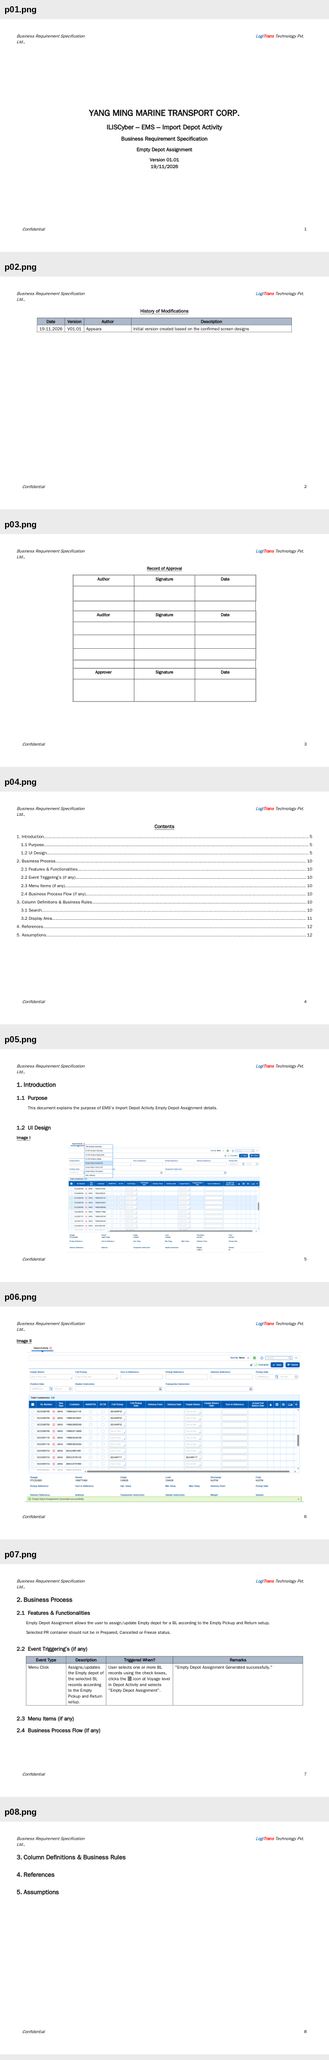
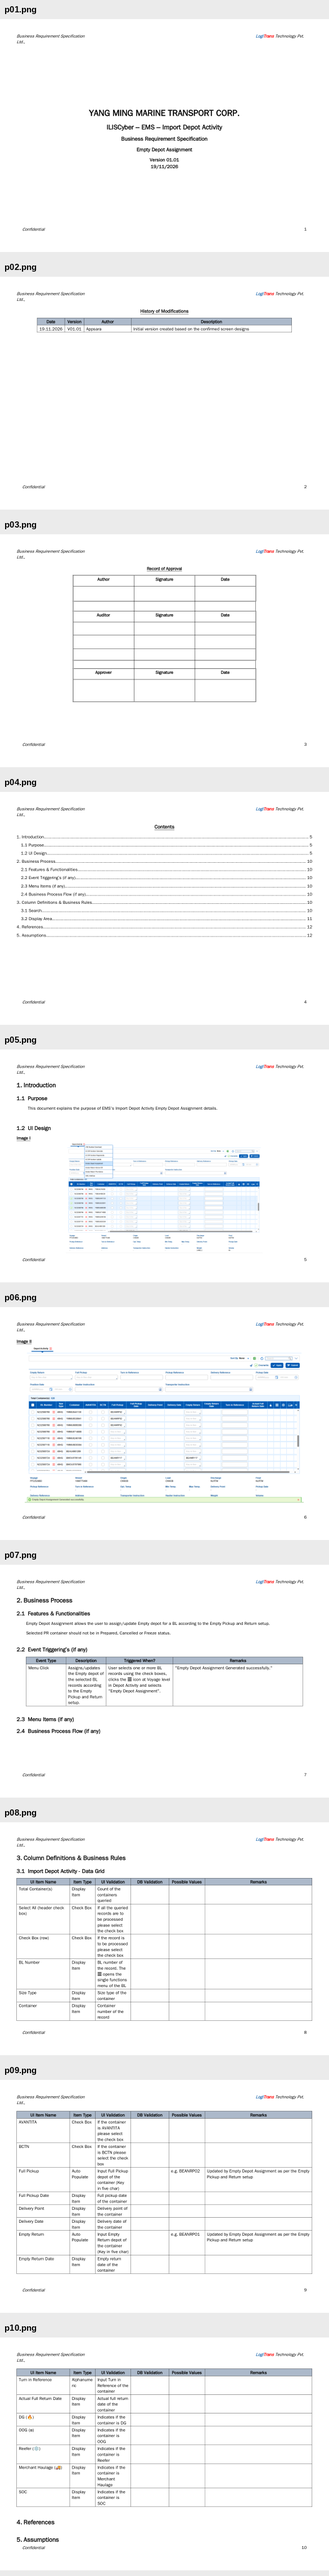
Import Depot Fn4 Empty Depot Assignment (Group): add Data Grid display table

diff --git a/work/brs/EMS_Help_Manual_Import_depot/PROGRESS.md b/work/brs/EMS_Help_Manual_Import_depot/PROGRESS.md
@@ -34,3 +34,4 @@
 - 2026-11-19 Fn5 images I-II approved.
 - 2026-11-19 Fn5 2.1 (A as manual), 2.2 (1 Menu Click), no section 3 approved; docx built, check passed. Awaiting docx approval.
 - 2026-11-19 Fn5 Empty Return Pre Advice docx approved; done. User asked to add Display Area fields to Fn4 (data updated in the grid).
+- 2026-11-19 Fn4 revisit: user asked for Display Area; chose full visible grid (B), icon names DG/OOG/Reefer/Merchant Haulage/SOC (user-chosen guesses); 21 rows approved; docx rebuilt (10 pages), check passed. Awaiting docx approval.
